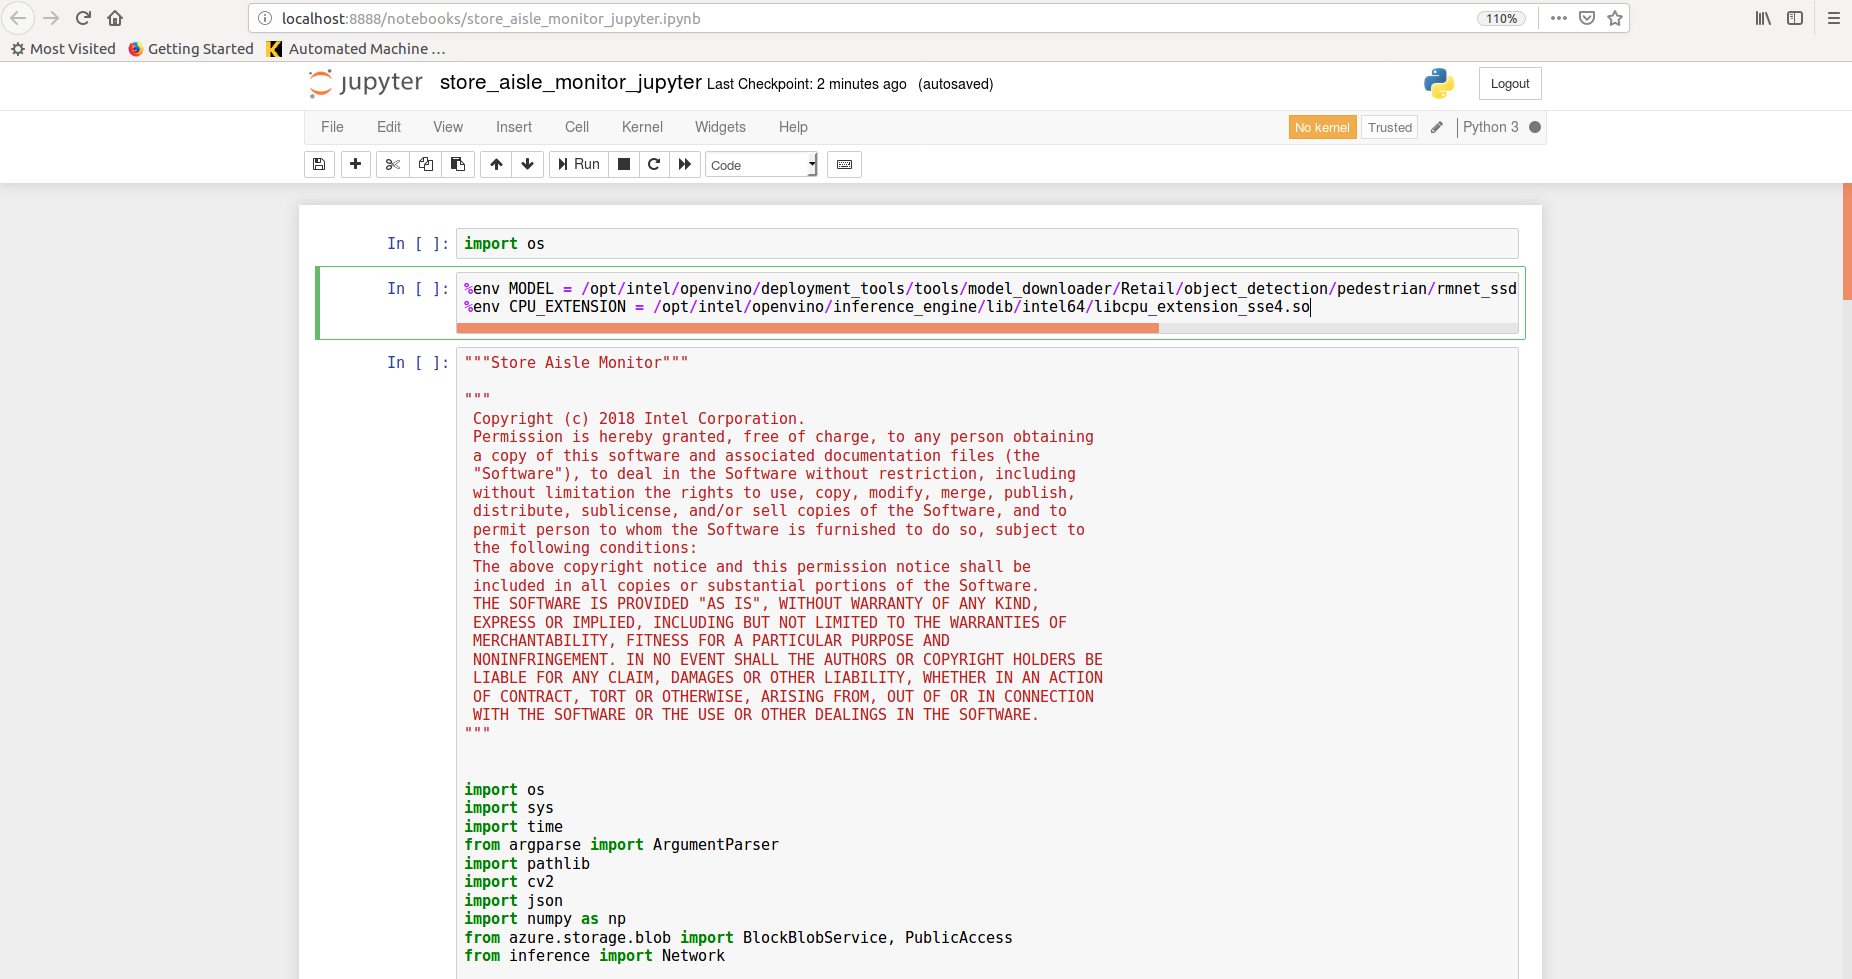
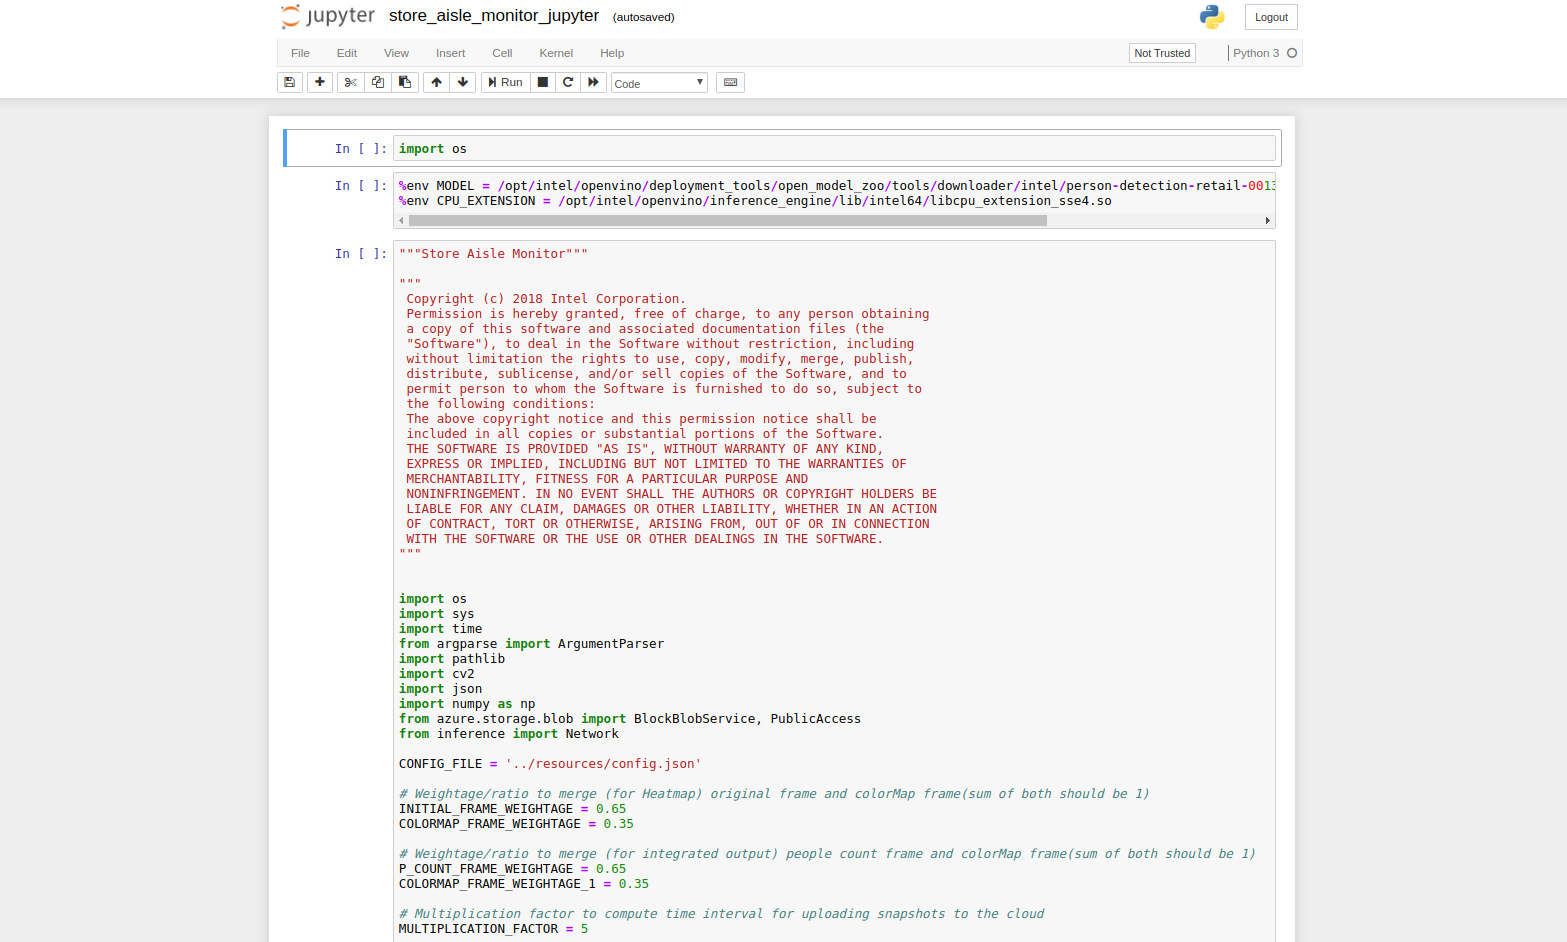
Update to R3

diff --git a/README.md b/README.md
@@ -1,5 +1,4 @@
 
-
 # Store Aisle Monitor
 
 
@@ -30,7 +29,7 @@ This reference implementation counts the number of people present in an image an
   ```  
   uname -a
   ```  
-* Intel® Distribution of OpenVINO™ toolkit 2019 R2 Release
+* Intel® Distribution of OpenVINO™ toolkit 2019 R3 Release
 * Microsoft Azure* Python SDK
 
 ## How it Works
@@ -52,7 +51,7 @@ This reference implementation counts the number of people present in an image an
 Clone the reference implementation
 ```
 sudo apt-get update && sudo apt-get install git
-git clone https://github.com/intel-iot-devkit/store-aisle-monitor-python.git
+git clone https://gitlab.devtools.intel.com/reference-implementations/store-aisle-monitor-python.git
 ```
 
 ### Install Intel® Distribution of OpenVINO™ toolkit
@@ -69,7 +68,7 @@ The Azure python SDK allows you to build applications against Microsoft Azure St
 
 ### Which model to use
 
-This application uses the [**person-detection-retail-0013**](https://docs.openvinotoolkit.org/2019_R1/_person_detection_retail_0013_description_person_detection_retail_0013.html) Intel® pre-trained model, that can be accessed using the **model downloader**. The **model downloader** downloads the __.xml__ and __.bin__ files that will be used by the application.
+This application uses the [**person-detection-retail-0013**](https://docs.openvinotoolkit.org/2019_R3/_models_intel_person_detection_retail_0013_description_person_detection_retail_0013.html) Intel® pre-trained model, that can be accessed using the **model downloader**. The **model downloader** downloads the __.xml__ and __.bin__ files that will be used by the application.
 
 To download the model and install the dependencies of the application, run the below command in the `store-aisle-monitor-python` directory:
 ```
@@ -148,7 +147,7 @@ To see a list of the various options:
 
     python3 store_aisle_monitor.py --help
 
-A user can specify what target device to run on by using the device command-line argument `-d` followed by one of the values `CPU`, `GPU`, `HDDL` or `MYRIAD`.
+A user can specify what target device to run on by using the device command-line argument `-d` followed by one of the values `CPU`, `GPU`, `HDDL`, `MYRIAD` or `HETERO:FPGA,CPU`.
 To run with multiple devices use -d MULTI:device1,device2. For example: `-d MULTI:CPU,GPU,HDDL`
 If no target device is specified the application will run on the CPU by default.
 
@@ -156,60 +155,79 @@ If no target device is specified the application will run on the CPU by default.
 
 Although the application runs on the CPU by default, this can also be explicitly specified through the `-d CPU` command-line argument:
 
-    python3 store_aisle_monitor.py -m /opt/intel/openvino/deployment_tools/open_model_zoo/tools/downloader/Retail/object_detection/pedestrian/rmnet_ssd/0013/dldt/FP32/person-detection-retail-0013.xml -l /opt/intel/openvino/inference_engine/lib/intel64/libcpu_extension_sse4.so -d CPU -pt 0.7
+    python3 store_aisle_monitor.py -m /opt/intel/openvino/deployment_tools/open_model_zoo/tools/downloader/intel/person-detection-retail-0013/FP32/person-detection-retail-0013.xml -l /opt/intel/openvino/inference_engine/lib/intel64/libcpu_extension_sse4.so -d CPU -pt 0.7
 To run the application on sync mode, use `-f sync` as command line argument. By default, the application runs on async mode.
 
 ### Run on the Integrated GPU
 
 * To run on the integrated Intel® GPU in 32-bit mode, use the below command.
     ```
-    python3 store_aisle_monitor.py -m /opt/intel/openvino/deployment_tools/open_model_zoo/tools/downloader/Retail/object_detection/pedestrian/rmnet_ssd/0013/dldt/FP32/person-detection-retail-0013.xml -d GPU -pt 0.7
+    python3 store_aisle_monitor.py -m /opt/intel/openvino/deployment_tools/open_model_zoo/tools/downloader/intel/person-detection-retail-0013/FP32/person-detection-retail-0013.xml -d GPU -pt 0.7
     ```
     **FP32**: FP32 is single-precision floating-point arithmetic uses 32 bits to represent numbers. 8 bits for the magnitude and 23 bits for the precision. For more information, [click here](https://en.wikipedia.org/wiki/Single-precision_floating-point_format)<br>
 
 * To run on the integrated Intel® GPU in 16-bit mode, use the below command.
     ```
-    python3 store_aisle_monitor.py -m /opt/intel/openvino/deployment_tools/open_model_zoo/tools/downloader/Retail/object_detection/pedestrian/rmnet_ssd/0013/dldt/FP16/person-detection-retail-0013.xml -d GPU -pt 0.7
+    python3 store_aisle_monitor.py -m /opt/intel/openvino/deployment_tools/open_model_zoo/tools/downloader/intel/person-detection-retail-0013/FP16/person-detection-retail-0013.xml -d GPU -pt 0.7
     ```
    **FP16**: FP16 is half-precision floating-point arithmetic uses 16 bits. 5 bits for the magnitude and 10 bits for the precision. For more information, [click here](https://en.wikipedia.org/wiki/Half-precision_floating-point_format)
     
 ### Run on the Intel® Neural Compute Stick
 To run on the Intel® Neural Compute Stick, use the ```-d MYRIAD``` command-line argument:
 
-    python3 store_aisle_monitor.py -d MYRIAD -m /opt/intel/openvino/deployment_tools/open_model_zoo/tools/downloader/Retail/object_detection/pedestrian/rmnet_ssd/0013/dldt/FP16/person-detection-retail-0013.xml -pt 0.7
+    python3 store_aisle_monitor.py -d MYRIAD -m /opt/intel/openvino/deployment_tools/open_model_zoo/tools/downloader/intel/person-detection-retail-0013/FP16/person-detection-retail-0013.xml -pt 0.7
 
 **Note:** The Intel® Neural Compute Stick can only run FP16 models. The model that is passed to the application, through the `-m <path_to_model>` command-line argument, must be of data type FP16.
 
 ### Run on the Intel® Movidius™ VPU
 To run on the Intel® Movidius™ VPU, use the `-d HDDL` command-line argument:
 
-    python3 store_aisle_monitor.py -m /opt/intel/openvino/deployment_tools/open_model_zoo/tools/downloader/Retail/object_detection/pedestrian/rmnet_ssd/0013/dldt/FP16/person-detection-retail-0013.xml -d HDDL
+    python3 store_aisle_monitor.py -m /opt/intel/openvino/deployment_tools/open_model_zoo/tools/downloader/intel/person-detection-retail-0013/FP16/person-detection-retail-0013.xml -d HDDL
 
 **Note:** The HDDL-R can only run FP16 models. The model that is passed to the application, through the `-m <path_to_model>` command-line argument, must be of data type FP16.
-<!--
-### Running on the FPGA
 
-Before running the application on the FPGA,  program the AOCX (bitstream) file. Use the setup_env.sh script from [fpga_support_files.tgz](https://clicktime.symantec.com/38YrYPLxxSqYhBQLb1eruhW7Vc?u=http%3A%2F%2Fregistrationcenter-download.intel.com%2Fakdlm%2Firc_nas%2F12954%2Ffpga_support_files.tgz) to set the environment variables.<br>
-For example:
+### Run on the Intel® Arria® 10 FPGA
 
-    source /home/<user>/Downloads/fpga_support_files/setup_env.sh
+Before running the application on the FPGA, set the environment variables and  program the AOCX (bitstream) file.<br>
 
-The bitstreams for HDDL-F can be found under the `/opt/intel/openvino/bitstreams/a10_vision_design_bitstreams` folder.<br><br>To program the bitstream use the below command:<br>
+Set the Board Environment Variable to the proper directory:
 
-    aocl program acl0 /opt/intel/openvino/bitstreams/a10_vision_design_bitstreams/2019R1_PL1_FP11_RMNet.aocx
+```
+export AOCL_BOARD_PACKAGE_ROOT=/opt/intel/openvino/bitstreams/a10_vision_design_sg<#>_bitstreams/BSP/a10_1150_sg<#>
+```
+**NOTE**: If you do not know which version of the board you have, please refer to the product label on the fan cover side or by the product SKU: Mustang-F100-A10-R10 => SG1; Mustang-F100-A10E-R10 => SG2 <br>
 
-For more information on programming the bitstreams, please refer to https://software.intel.com/en-us/articles/OpenVINO-Install-Linux-FPGA#inpage-nav-11
+Set the Board Environment Variable to the proper directory: 
+```
+export QUARTUS_ROOTDIR=/home/<user>/intelFPGA/18.1/qprogrammer
+```
+Set the remaining environment variables:
+```
+export PATH=$PATH:/opt/altera/aocl-pro-rte/aclrte-linux64/bin:/opt/altera/aocl-pro-rte/aclrte-linux64/host/linux64/bin:/home/<user>/intelFPGA/18.1/qprogrammer/bin
+export INTELFPGAOCLSDKROOT=/opt/altera/aocl-pro-rte/aclrte-linux64
+export LD_LIBRARY_PATH=$LD_LIBRARY_PATH:$AOCL_BOARD_PACKAGE_ROOT/linux64/lib
+export CL_CONTEXT_COMPILER_MODE_INTELFPGA=3
+source /opt/altera/aocl-pro-rte/aclrte-linux64/init_opencl.sh
+```
+**NOTE**: It is recommended to create your own script for your system to aid in setting up these environment variables. It will be run each time you need a new terminal or restart your system. 
 
-To run the application on the FPGA with floating point precision 16 (FP16), use the `-d HETERO:FPGA,CPU` command-line argument:
+The bitstreams for HDDL-F can be found under the `/opt/intel/openvino/bitstreams/a10_vision_design_sg<#>_bitstreams/` directory.<br><br>To program the bitstream use the below command:<br>
+```
+aocl program acl0 /opt/intel/openvino/bitstreams/a10_vision_design_sg<#>_bitstreams/2019R3_PV_PL1_FP11_RMNet.aocx
+```
 
-    python3 store_aisle_monitor.py -m /opt/intel/openvino/deployment_tools/open_model_zoo/tools/downloader/Retail/object_detection/pedestrian/rmnet_ssd/0013/dldt/FP16/person-detection-retail-0013.xml -l /opt/intel/openvino/inference_engine/lib/intel64/libcpu_extension_sse4.so -d HETERO:FPGA,CPU
--->
+For more information on programming the bitstreams, please refer to [OpenVINO-Install-Linux-FPGA](https://software.intel.com/en-us/articles/OpenVINO-Install-Linux-FPGA#inpage-nav-11)
+
+To run the application on the FPGA with floating point precision 16 (FP16), use the `-d HETERO:FPGA,CPU` command-line argument:<br>
+
+    python3 store_aisle_monitor.py -m /opt/intel/openvino/deployment_tools/open_model_zoo/tools/downloader/intel/person-detection-retail-0013/FP16/person-detection-retail-0013.xml -l /opt/intel/openvino/inference_engine/lib/intel64/libcpu_extension_sse4.so -d HETERO:FPGA,CPU
+
 
 ## (Optional) Saving snapshots to the Cloud 
 To upload the results to the cloud, the Microsoft Azure storage name and storage key are provided as the command line arguments.
 Use `-an` and `-ak` options to specify Microsoft Azure storage name and storage key respectively.
 
-    python3 store_aisle_monitor.py -m /opt/intel/openvino/deployment_tools/open_model_zoo/tools/downloader/Retail/object_detection/pedestrian/rmnet_ssd/0013/dldt/FP32/person-detection-retail-0013.xml -l /opt/intel/openvino/inference_engine/lib/intel64/libcpu_extension_sse4.so -d CPU -pt 0.7 -an <azure-account-name> -ak <azure-account-key>
+    python3 store_aisle_monitor.py -m /opt/intel/openvino/deployment_tools/open_model_ -l /opt/intel/openvino/inference_engine/lib/intel64/libcpu_extension_sse4.so -d CPU -pt 0.7 -an <azure-account-name> -ak <azure-account-key>
 
 **Note:** <br>
 To obtain account name and account key from the Microsoft Azure portal, please refer:

diff --git a/Jupyter/README.md b/Jupyter/README.md
@@ -1,5 +1,3 @@
-
-
 # Store Aisle Monitor
 
 
@@ -29,7 +27,7 @@ This reference implementation counts the number of people present in an image an
   ```  
   uname -a
   ```  
-* Intel® Distribution of OpenVINO™ toolkit 2019 R2 Release
+* Intel® Distribution of OpenVINO™ toolkit 2019 R3 Release
 * Microsoft Azure* Python SDK
 
 ## How it Works
@@ -49,6 +47,13 @@ This reference implementation counts the number of people present in an image an
 
 ## Setup
 
+### Get the code
+Clone the reference implementation
+```
+sudo apt-get update && sudo apt-get install git
+git clone https://gitlab.devtools.intel.com/reference-implementations/store-aisle-monitor-python.git
+```
+
 ### Install Intel® Distribution of OpenVINO™ toolkit
 
 Refer to [https://software.intel.com/en-us/articles/OpenVINO-Install-Linux](https://software.intel.com/en-us/articles/OpenVINO-Install-Linux) for more information on how to install and setup the Intel® Distribution of OpenVINO™ toolkit.
@@ -59,11 +64,9 @@ The OpenCL™ Runtime package is required to run the inference on a GPU. It is n
 **Microsoft Azure python SDK**<br>
 The Azure python SDK allows you to build applications against Microsoft Azure Storage. [Azure Storage](https://docs.microsoft.com/en-us/azure/storage/common/storage-introduction) is Microsoft's cloud storage solution for modern data storage scenarios. Azure Storage offers a massively scalable object store for data objects, a file system service for the cloud, a messaging store for reliable messaging, and a NoSQL store.
 
-
-
 ### Which model to use
 
-This application uses the [**person-detection-retail-0013**](https://docs.openvinotoolkit.org/2019_R1/_person_detection_retail_0013_description_person_detection_retail_0013.html) Intel® pre-trained model, that can be accessed using the **model downloader**. The **model downloader** downloads the __.xml__ and __.bin__ files that will be used by the application.
+This application uses the [**person-detection-retail-0013**](https://docs.openvinotoolkit.org/2019_R3/_models_intel_person_detection_retail_0013_description_person_detection_retail_0013.html) Intel® pre-trained model, that can be accessed using the **model downloader**. The **model downloader** downloads the __.xml__ and __.bin__ files that will be used by the application.
 
 To download the model and install the dependencies of the application, run the below command in the `store-aisle-monitor-python` directory:
 ```
@@ -143,7 +146,38 @@ cd <path_to_the_store-aisle-monitor-python_directory>/Jupyter
 jupyter notebook
 ```
 
-#### Follow the steps to run the code on Jupyter*:
+**NOTE**:
+ Before running the application on the FPGA, set the environment variables and  program the AOCX (bitstream) file.<br>
+
+ Set the Board Environment Variable to the proper directory:
+
+ ```
+ export AOCL_BOARD_PACKAGE_ROOT=/opt/intel/openvino/bitstreams/a10_vision_design_sg<#>_bitstreams/BSP/a10_1150_sg<#>
+ ```
+ **NOTE**: If you do not know which version of the board you have, please refer to the product label on the fan cover side or by the product SKU: Mustang-F100-A10-R10 => SG1; Mustang-F100-A10E-R10 => SG2 <br>
+
+ Set the Board Environment Variable to the proper directory: 
+ ```
+ export QUARTUS_ROOTDIR=/home/<user>/intelFPGA/18.1/qprogrammer
+ ```
+ Set the remaining environment variables:
+ ```
+ export PATH=$PATH:/opt/altera/aocl-pro-rte/aclrte-linux64/bin:/opt/altera/aocl-pro-rte/aclrte-linux64/host/linux64/bin:/home/<user>/intelFPGA/18.1/qprogrammer/bin
+ export INTELFPGAOCLSDKROOT=/opt/altera/aocl-pro-rte/aclrte-linux64
+ export LD_LIBRARY_PATH=$LD_LIBRARY_PATH:$AOCL_BOARD_PACKAGE_ROOT/linux64/lib
+ export CL_CONTEXT_COMPILER_MODE_INTELFPGA=3
+ source /opt/altera/aocl-pro-rte/aclrte-linux64/init_opencl.sh
+ ```
+ **NOTE**: It is recommended to create your own script for your system to aid in setting up these environment variables. It will be run each time you need a new terminal or restart your system. 
+
+ The bitstreams for HDDL-F can be found under the `/opt/intel/openvino/bitstreams/a10_vision_design_sg<#>_bitstreams/` directory.<br><br>To program the bitstream use the below command:<br>
+ ```
+ aocl program acl0 /opt/intel/openvino/bitstreams/a10_vision_design_sg<#>_bitstreams/2019R3_PV_PL1_FP11_RMNet.aocx
+ ```
+
+ For more information on programming the bitstreams, please refer to [OpenVINO-Install-Linux-FPGA](https://software.intel.com/en-us/articles/OpenVINO-Install-Linux-FPGA#inpage-nav-11)
+
+**Follow the steps below :**
 
 ![Jupyter Notebook](./docs/images/jupy1.png)
 
@@ -156,7 +190,7 @@ jupyter notebook
 
 4. Export the below environment variables in second cell of Jupyter and press **Shift+Enter**.
     ```
-    %env MODEL = /opt/intel/openvino/deployment_tools/open_model_zoo/tools/downloader/Retail/object_detection/pedestrian/rmnet_ssd/0013/dldt/FP32/person-detection-retail-0013.xml
+    %env MODEL = /opt/intel/openvino/deployment_tools/open_model_zoo/tools/downloader/intel/person-detection-retail-0013/FP32/person-detection-retail-0013.xml
     %env CPU_EXTENSION = /opt/intel/openvino/inference_engine/lib/intel64/libcpu_extension_sse4.so 
     %env INPUT = resources/store-aisle-detection.mp4
     ```
@@ -192,32 +226,31 @@ jupyter notebook
      * With the floating point precision 16 (FP16), change the environment variables as given below:<br>
 
            %env DEVICE = GPU
-           %env MODEL=/opt/intel/openvino/deployment_tools/open_model_zoo/tools/downloader/Retail/object_detection/pedestrian/rmnet_ssd/0013/dldt/FP16/person-detection-retail-0013.xml 
+           %env MODEL=/opt/intel/openvino/deployment_tools/open_model_zoo/tools/downloader/intel/person-detection-retail-0013/FP16/person-detection-retail-0013.xml 
      * **CPU_EXTENSION** environment variable is not required.
    
 2. To run the application on **Intel® Neural Compute Stick**: 
       * Change the **%env DEVICE = CPU** to **%env DEVICE = MYRIAD**
       * The Intel® Neural Compute Stick can only run FP16 models. Hence change the environment variable for the model as shown below. <br>
               
-            %env MODEL=/opt/intel/openvino/deployment_tools/open_model_zoo/tools/downloader/Retail/object_detection/pedestrian/rmnet_ssd/0013/dldt/FP16/person-detection-retail-0013.xml
+            %env MODEL=/opt/intel/openvino/deployment_tools/open_model_zoo/tools/downloader/intel/person-detection-retail-0013/FP16/person-detection-retail-0013.xml
       * **CPU_EXTENSION** environment variable is not required.
 
 3. To run the application on **Intel® Movidius™ VPU**:
      * Change the **%env DEVICE = CPU** to **%env DEVICE = HDDL**
      * The HDDL-R can only run FP16 models. Change the environment variable for the model as shown below  and the models that are passed to the application must be of data type FP16. <br>
  
-           %env MODEL=/opt/intel/openvino/deployment_tools/open_model_zoo/tools/downloader/Retail/object_detection/pedestrian/rmnet_ssd/0013/dldt/FP16/person-detection-retail-0013.xml
+           %env MODEL=/opt/intel/openvino/deployment_tools/open_model_zoo/tools/downloader/intel/person-detection-retail-0013/FP16/person-detection-retail-0013.xml
      * **CPU_EXTENSION** environment variable is not required.
-<!--
+
 4. To run the application on **FPGA**:
      * Change the **%env DEVICE = CPU** to **%env DEVICE = HETERO:FPGA,CPU**
      * With the **floating point precision 16 (FP16)**, change the path of the model in the environment variable **MODEL** as given below:<br>
       
-           %env MODEL=/opt/intel/openvino/deployment_tools/open_model_zoo/tools/downloader/Retail/object_detection/pedestrian/rmnet_ssd/0013/dldt/FP16/person-detection-retail-0013.xml
+           %env MODEL=/opt/intel/openvino/deployment_tools/open_model_zoo/tools/downloader/intel/person-detection-retail-0013/FP16/person-detection-retail-0013.xml
      * Export the **CPU_EXTENSION** environment variable as shown below:
          
            %env CPU_EXTENSION = /opt/intel/openvino/inference_engine/lib/intel64/libcpu_extension_sse4.so
--->
 
 4. To obtain **account name** and **account key** from **azure portal**, please refer:
    https://docs.microsoft.com/en-us/azure/storage/blobs/storage-quickstart-blobs-python#copy-your-credentials-from-the-azure-portal
